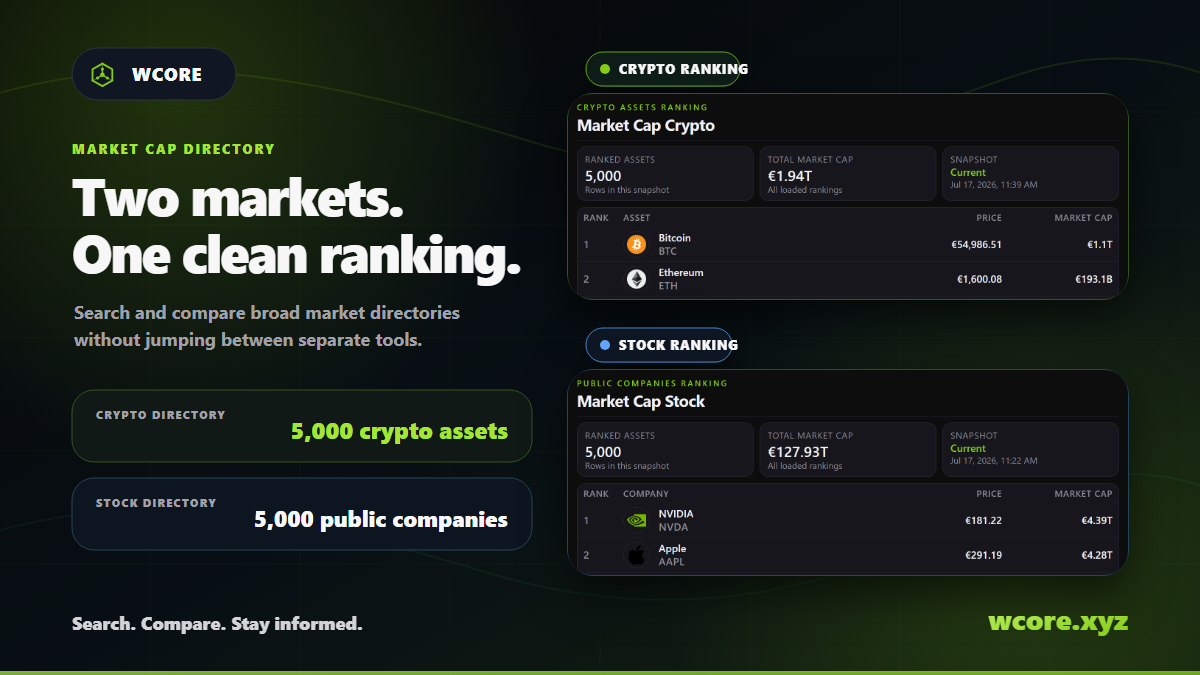
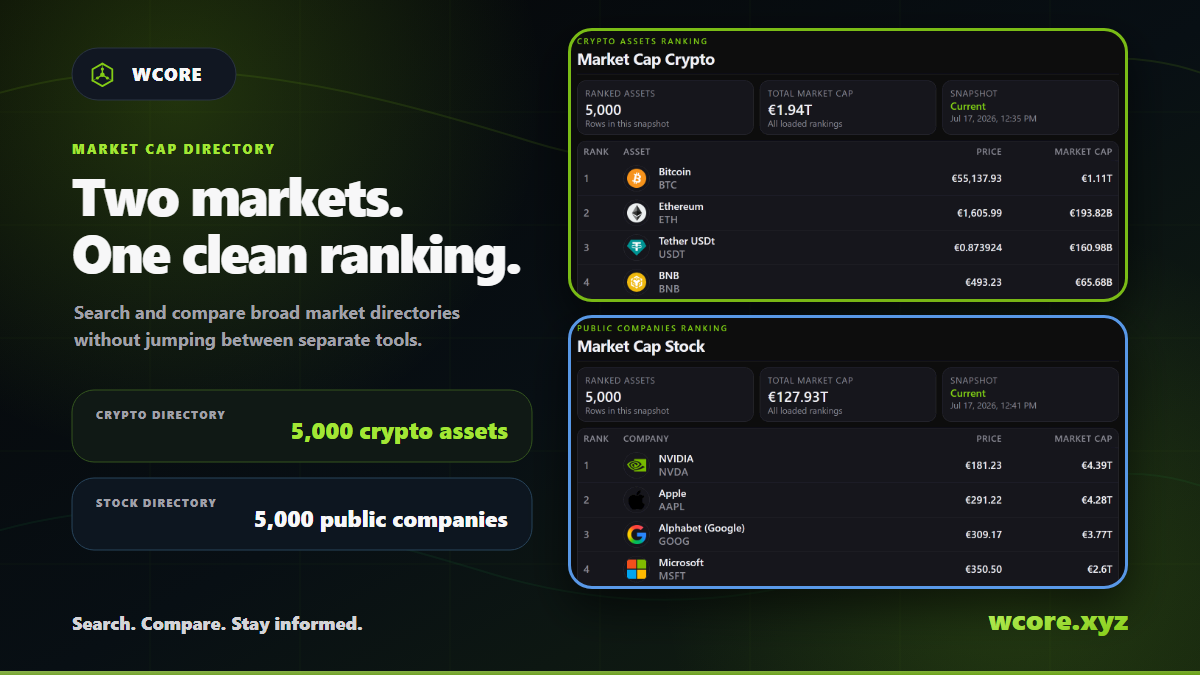
docs: close market cap X cycle

diff --git a/wcore-web/ROADMAP.md b/wcore-web/ROADMAP.md
@@ -27,6 +27,13 @@ Document unique de suivi de la migration de WCORE (Google Apps Script) vers une 
 
 ## Etat courant : v0.3.3 - Kraken CEX + DeFi positions + pricing fixes (2026-07-05)
 
+### Session 2026-07-17 — Market Cap en production + cycle X termine
+
+- **Pages Market Cap en production** : `/cmc/crypto` et `/cmc/stocks` exposent chacune 5 000 lignes avec logos, pays pour les actions, recherche, pagination de 100 lignes et statut fresh/stale. La sidebar place les deux pages apres History. CI GitHub verte (`29563848901`) et Web Railway redeploye (`391f780d-124b-4b21-90db-81b4a9148787`).
+- **Post X Market Cap** : publie `https://x.com/WCORExyz/status/2078069673707348415`. Image finale `apps/web/public/wcore-post-market-cap.svg` + `.png` en 1200x675, generee par `scripts/build-post-market-cap.cjs`. Les captures Crypto et Stock affichent quatre rangs, avec contours lime et bleu visibles et arrondis, sans badges redondants.
+- **Cycle X interaction** : trois replies approuvees, publiees et verifiees sur `strivex_`, `DeFiDegen_0x` et `MARCELLUScryp`. Angles : market cap vs qualite, distinction equity/token market cap, emissions/unlocks et risque de dilution. Aucun like, follow ou autre engagement automatique.
+- **Nettoyage** : processus de brouillon X arrete, branche `feature/market-cap-x-cycle` supprimee apres fast-forward sur `master`, et dossier worktree orphelin retire. Aucun worktree ne doit etre recree pour ce projet.
+
 ### Session 2026-07-07 — Cycle X read-only + post "Read first. Sign later."
 
 - **Cycle X interaction** : scan read-only via Chrome CDP 9224, cibles filtrees contre shill cache/doublons WCORE. 3 replies publiees et verifiees : approvals/read-only (`aisama_code`), public API/private key (`NintondoWallet`), fake portfolio balance scam (`GardenGnomeCoin`). Angles propres : separation read vs sign, seed/private key jamais necessaire pour lire, clean total contre spam-token value.
@@ -67,7 +74,7 @@ Document unique de suivi de la migration de WCORE (Google Apps Script) vers une 
 - **GSheet — Portfolio auto-filter** : `_portfolioReapplyFilter_()` réapplique le filtre colonne S (Achat) à chaque refresh horaire + onEdit BW1/B1. Corrige le retrait du `OR(T="X")` redondant dans la formule S Crypto.
 - **GSheet — Chart auto-resize** : `updateEmbeddedObjectPosition` redimensionne le graphique `visibleRows × 21` après chaque refresh et onEdit. `_WCORE_ORIG_FETCH` contourne le guard quota.
 - **Railway — Fresh pricing** : `?fresh=true` accepté sur les endpoints portfolio → bypass cache Redis → fetch CMC live. TTL cache réduit 6h → 1h. `EMERGENCY_RESET_QUOTA()` corrigé (faux positif breaker, 23/20000).
-- **Pages Market Cap — implémentées localement** : routes publiques stables `/cmc/crypto` et `/cmc/stocks`, libellés Market Cap Crypto/Stock, logos source exacts quand disponibles, pays pour les actions, résumés responsive, recherche, pagination de 100 lignes et statut de snapshot stale. Tests présents ; aucun déploiement ni contrôle live n'est attesté.
+- **Pages Market Cap — livrées** : routes publiques stables `/cmc/crypto` et `/cmc/stocks`, libellés Market Cap Crypto/Stock, logos source exacts quand disponibles, pays pour les actions, résumés responsive, recherche, pagination de 100 lignes et statut de snapshot stale. Déploiement et contrôle live attestés le 2026-07-17 ; cycle X associé terminé.
 - **Backlog — Bridge** : intégration d'un bridge cross-chain (read-only ou interactif) permettant de visualiser et/ou exécuter des transferts d'actifs entre les 183+ chaînes suivies. Priorité : affichage des routes disponibles et des frais, avant exécution.
 
 ### Session 2026-07-01 - GSheet Web scan hardening + Base Zora pricing fallback

diff --git a/wcore-web/CHANGELOG.md b/wcore-web/CHANGELOG.md
@@ -1,5 +1,13 @@
 # Changelog
 
+## 2026-07-17 — Market Cap production launch + X cycle
+
+- **Market Cap Crypto/Stock** : pages publiques `/cmc/crypto` et `/cmc/stocks` livrées avec 5 000 lignes, logos, pays, recherche, pagination et statut fresh/stale. Navigation sidebar mise à jour.
+- **Visuel X** : `wcore-post-market-cap.svg/.png` finalisé en 1200x675 avec quatre rangs par capture, contours arrondis lime/bleu visibles et suppression des badges redondants.
+- **Publication** : post publié sur `https://x.com/WCORExyz/status/2078069673707348415`.
+- **Interactions** : trois réponses approuvées publiées et vérifiées sur les fils `strivex_`, `DeFiDegen_0x` et `MARCELLUScryp`; aucun like ou follow automatique.
+- **Opérations** : ancien brouillon X arrêté, branche de cycle fusionnée supprimée et dossier worktree orphelin nettoyé.
+
 ## 2026-07-17 — CI racine, lint vert, ws patché et GM lifecycle aligné
 
 - **CI** : workflow déplacé de `wcore-web/.github/workflows/` vers la racine `.github/workflows/`; working-directory, cache pnpm, E2E et artifacts adaptés au monorepo.

diff --git a/ROADMAP.md b/ROADMAP.md
@@ -1,6 +1,6 @@
 # WCORE - Roadmap
 
-> Index cross-runtime et priorites communes. Etat verifie le 2026-07-16 (audit complet). Les details d'implementation et l'historique vivent dans les documents propres a chaque runtime.
+> Index cross-runtime et priorites communes. Etat verifie le 2026-07-17. Les details d'implementation et l'historique vivent dans les documents propres a chaque runtime.
 
 ## Sources de verite
 
@@ -88,7 +88,7 @@
 - [ ] Ajouter un test schema sur les 183 configurations.
 - [ ] Ajouter des tests comportementaux pour les hooks CEX/GM.
 - [x] DeFi Position Engine v1 implemente dans le worktree courant: types/registre core, Compound V3 et WCT dynamiques, suffixes/mirrors API avec metadonnees `defi` inline, pass-through Apps Script et tests. Verification locale ciblee passee le 2026-07-17; deploiement et verification live restent gates.
-- [x] Pages Market Cap implementees localement sur les routes stables `/cmc/crypto` et `/cmc/stocks`: UI renommee Market Cap Crypto/Stock, logos source exacts quand disponibles, pays pour les actions, resumes responsive, recherche, pagination de 100 lignes et statut de snapshot stale. Tests presents; aucun deploiement ni controle live n'est atteste.
+- [x] Pages Market Cap livrees sur les routes stables `/cmc/crypto` et `/cmc/stocks`: 5 000 lignes par annuaire, logos, pays pour les actions, resumes responsive, recherche, pagination de 100 lignes et statut fresh/stale. CI et controle live attestes le 2026-07-17. Post X publie (`2078069673707348415`) et trois interactions verifiees.
 - [x] Corriger les 19 erreurs lint et rendre le lint bloquant en CI. Verifie le 2026-07-17.
 
 ## Chain Lifecycle

diff --git a/wcore-web/AGENTS.md b/wcore-web/AGENTS.md
@@ -654,6 +654,7 @@ const {chromium}=require('playwright');
 - **Swellchain shutdown post (2026-06-18)** : `https://x.com/WCORExyz/status/2067654188692111746`. Post alerte utilitaire (PAS daily update) suite ├á l'annonce Swell : bridge avant le 23 juin, ne pas d├®pendre d'un seul tracker, WCORE retire Swell Chain de la couverture active apr├¿s le 23 juin. Image `apps/web/public/wcore-post-swell-shutdown.svg/.png` (`1200x675`), g├®n├®r├®e par `scripts/build-post-swell-shutdown.cjs`. DA v12, ton sobre, carte `June 23 deadline`, stack `Chain shutdown` / `Tracker drift` / `Coverage update`. Draft pr├®par├® via `scripts/x-cycle/prepare-post-swell-shutdown.cjs`, publication manuelle par l'utilisateur.
 - **Kraken post + badges MiCA (2026-07-05)** : `https://x.com/WCORExyz/status/2073777736384950364`. Daily update (7e CEX). Texte publi├® : `Today's WCORE update. / @krakenfx is now live. / Your Kraken spot balances now sit next to Binance, Bitpanda, Bitfinex, Bybit, Coinbase, OKX and your on-chain wallets. / 7 CEX sources. 5 of them MiCA-licensed. 182 chains. One clean total. / Read-only keys. Direct API, no relay. / Read first. Act later. / wcore.xyz`. Image : `apps/web/public/wcore-post-kraken.svg` + `.png` (`1200x675`), g├®n├®r├®e par `scripts/build-post-kraken.cjs`. DA v12 : colonne gauche (titre + pills + carte ONE PORTFOLIO), colonne droite 6 mini-chips `LIVE` (2 rangs de 3) + carte hero Kraken `NEW`. **Badges MiCA** : marqueur bleu `#60a5fa` `LIVE ┬À MiCA` sur les chips licenci├®s (Bitpanda BaFin, Bybit Autriche, Coinbase Luxembourg, OKX Malte) + pill `MiCA LICENSED` sur le hero Kraken (Central Bank of Ireland). Binance et Bitfinex = `LIVE` seul (pas de licence MiCA). Le bleu distingue le statut r├®glementaire du lime `LIVE` sans casser la DA. **Convention tag** : taguer UNIQUEMENT le nouveau CEX (`@krakenfx`), jamais les 7 ÔÇö tag-begging r├®duit le reach. **Logo Bitfinex** : CMC 37 en full-bleed slice (le PNG local ├®cras├® en 28px sur cercle blanc rendait mal) ; le mode `fullbleed`/couleur hex du helper `miniCexChip` g├¿re les logos circulaires pleins. Logo Kraken : CMC exchange 24.
 - **Read first / sign later post (2026-07-07)** : `https://x.com/WCORExyz/status/2074361865904283858`. Post concept (PAS daily update) issu d'un cycle X read-only : replies verifiees sur approvals/read-only, public API sans private key, fake portfolio balance scam. Texte publie : `Read first. / Sign later. / A wallet balance is public data. / A token showing $5,000 is not always liquid value. / An approval is risk, not just metadata. / Good crypto tools should tell you what is happening before asking you to do anything. / No seed phrase. / No forced wallet connect. / No fake total. / Read first. Act later. / wcore.xyz`. Image : `apps/web/public/wcore-post-read-first-sign-later.svg` + `.png` (**3200x1800**), generee par `scripts/build-post-read-first-sign-later.cjs`. DA v12 concept haute resolution : 2 colonnes equilibrees, titre gauche compact, carte `WHAT CAN BE READ SAFELY`, panneau droit `VISIBILITY LAYER`, raw value barree vs clean value, footer discret. **Gotcha composition** : verifier visuellement les exports haute resolution avant publication ; premiere version etait desequilibree (panneau droit trop dominant, debordement carte gauche), corrigee avant publication.
+- **Market Cap directories post (2026-07-17)** : `https://x.com/WCORExyz/status/2078069673707348415`. Image `apps/web/public/wcore-post-market-cap.svg` + `.png` (1200x675), generee par `scripts/build-post-market-cap.cjs`. Layout final valide : quatre rangs reels dans chaque capture, contour lime Crypto et bleu Stock trace au-dessus des images, rayons du contour et du clip harmonises, aucun badge `CRYPTO RANKING`/`STOCK RANKING`. Le builder attend les quatre logos avant capture et masque les rangs suivants pour un rendu deterministe. Cycle X termine avec trois replies publiees et verifiees sur market cap/quality, equity vs token market cap, et unlock dilution. Aucun worktree ne doit etre utilise pour les futurs cycles de ce projet.
 - **llamao tiny WebP + naturalWidth=0 (2026-05-14)** : llamao peut retourner 200 avec un WebP microscopique (ex: `rsz_ripple.jpg` = 962 bytes) qui passe le `naturalWidth` check en `size="md"` (28px) mais ├®choue en `size="sm"` (20px). Sympt├┤me : l'ic├┤ne appara├«t dans ChainCard mais pas dans ValueDistribution (qui utilise `size="sm"`). **Fix (v2, 2026-05-14)** : cascade simplifi├®e ÔÇö plus de TrustWallet auto-d├®riv├® (`twSlug`). La cascade est : FALLBACK_ICONS (TrustWallet fiable) ÔåÆ llamao. `naturalWidth===0` v├®rifi├® UNIQUEMENT pour les CDN fragiles (llamao, spothq, coingecko) ET seulement si la cha├«ne n'a PAS de FALLBACK_ICONS. `hasFallbackIcon()` (export├® depuis `icons.tsx`) v├®rifie l'existence dans FALLBACK_ICONS. R├®sultat : logo identique ├á toutes les tailles, pas de TW 404.
 - **ChainIcon cascade (2026-05-14, v2)** : le `twSlug` auto-d├®riv├® (`chainKey.toLowerCase().replace(/_/g,"")`) produisait des URLs TrustWallet fausses pour la plupart des cha├«nes non-FALLBACK_ICONS ÔåÆ 404 ÔåÆ emoji. Supprim├®. La cascade est maintenant : primary (FALLBACK_ICONS ou llamao) ÔåÆ emoji. `naturalWidth===0` ne d├®clenche que pour les CDN fragiles sans fallback TW explicite. Les cha├«nes dans FALLBACK_ICONS utilisent TrustWallet (fiable ├á toutes les tailles), les autres utilisent llamao (comportement identique sm/md).
 - **Chain icons ÔÇö 3 root causes (2026-05-16, v3)** : (1) `.gitignore` bloquait `*.png`/`*.jpg` ÔåÆ 35 fichiers critiques non track├®s (Ethereum, Base, BSC, etc.). Fix : `!apps/web/public/chains/**` dans `.gitignore`. (2) `next/image` avec `unoptimized` ne servait pas les chemins locaux en Docker standalone ÔåÆ remplac├® par `<img>` natif dans `ChainIcon.tsx`. (3) Logos obsol├¿tes (HEMI = CMC token, VANA/SOMNIA = anciens llamao) ÔåÆ remplac├®s depuis **rubyscore CDN** : `https://rubyscore.fra1.digitaloceanspaces.com/chain_icons/<chain>.{png,jpg,svg}`. Pattern : `HEMI.svg`, `VANA.png`, `SOMNIA.jpg`. Toujours v├®rifier les logos avec l'utilisateur apr├¿s deploy.